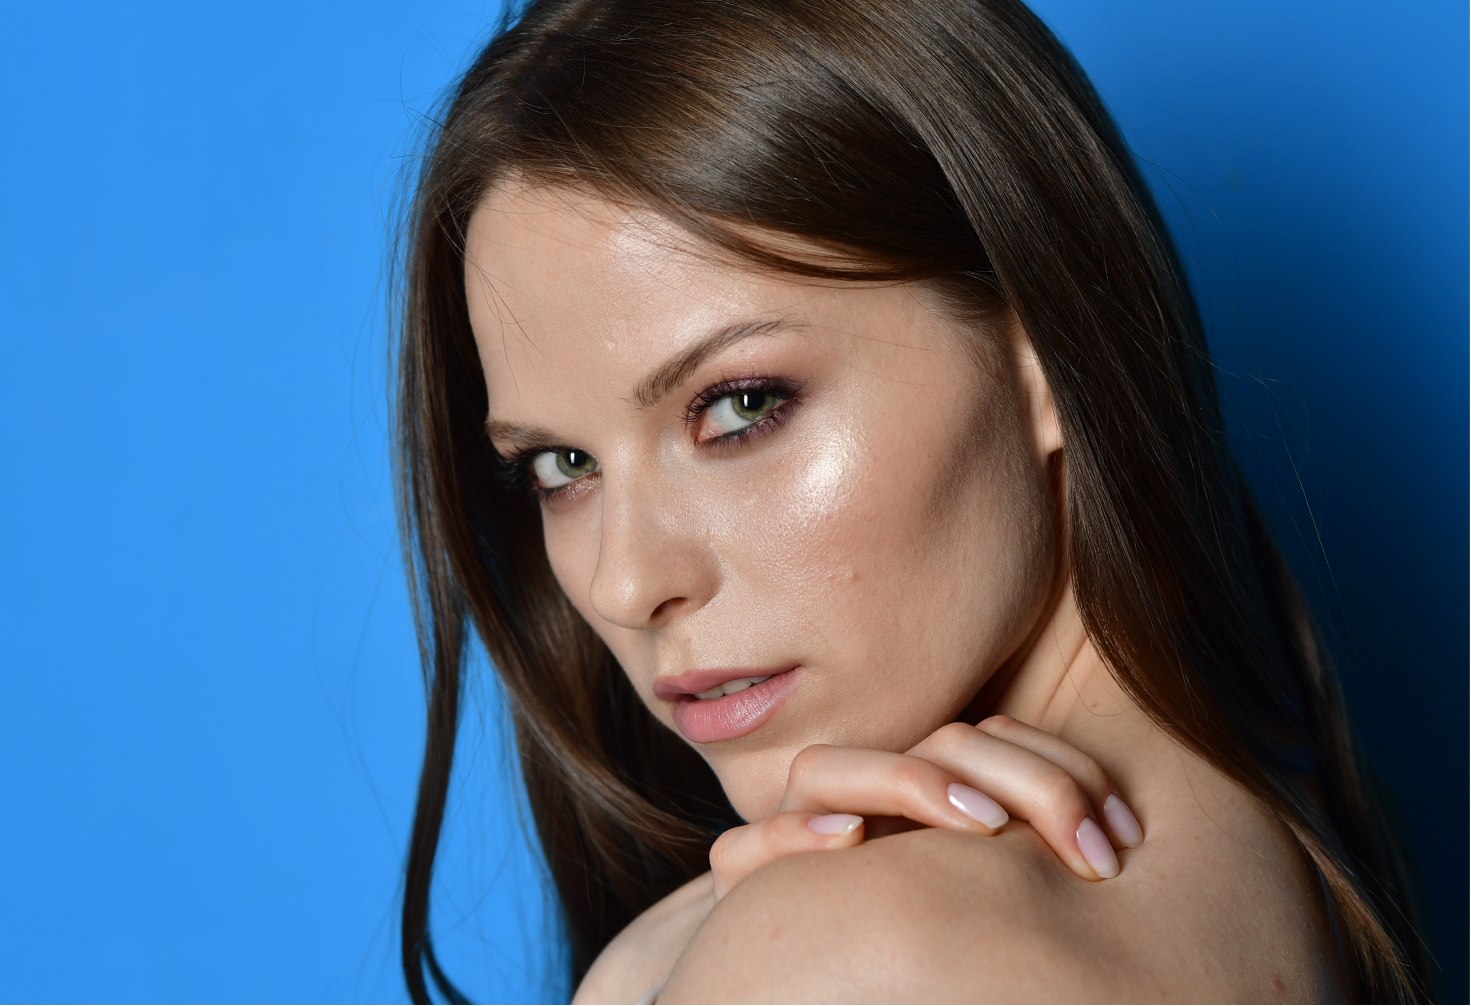
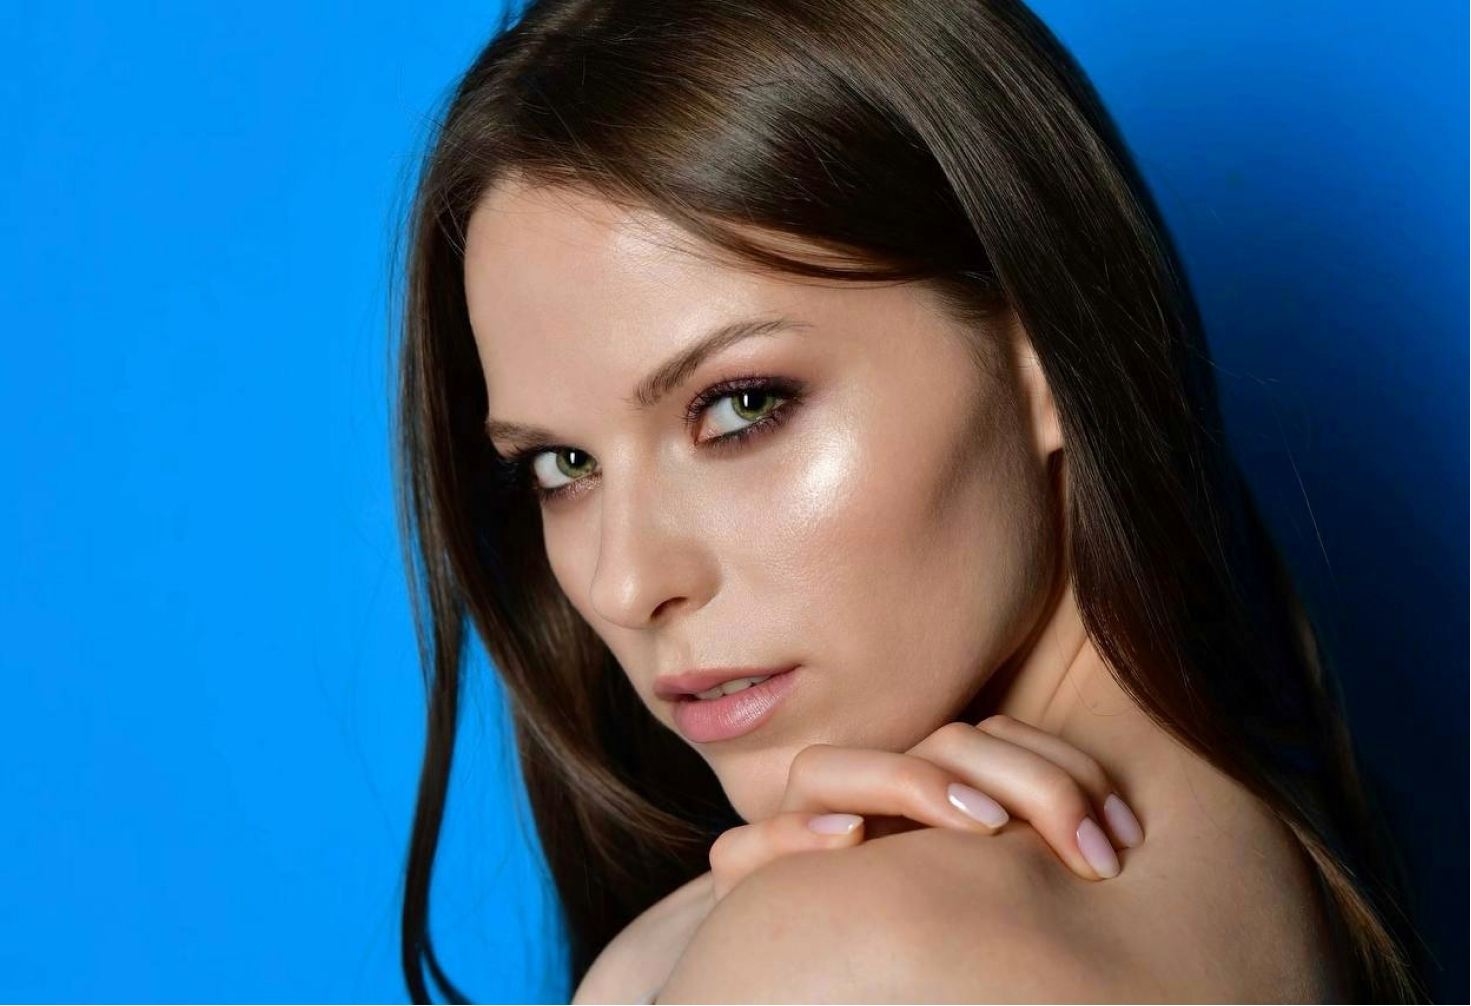
New photos + encrease info font

diff --git a/index.html b/index.html
@@ -155,8 +155,12 @@
             }
 
             #about {
-                width: 25rem;
+                width: 30rem;
                 margin: 3rem auto;
+            }
+
+            #about p {
+                font-size: 1.5rem;
             }
 
             .row {
@@ -285,6 +289,7 @@
             <div class="row">
                 <div><img src="imgs/p2-0.jpg" /></div>
                 <div><img src="imgs/p2-1.jpg" /></div>
+                <div><img src="imgs/p2-2.jpg" /></div>
             </div>
             <div class="row">
                 <div><img src="imgs/p3-0.jpg" /></div>
@@ -330,6 +335,16 @@
                 <div><img src="imgs/p12-0.jpg" /></div>
                 <div><img src="imgs/p12-1.jpg" /></div>
                 <div><img src="imgs/p12-2.jpg" /></div>
+            </div>
+            <div class="row">
+                <div><img src="imgs/p13-0.jpg" /></div>
+                <div><img src="imgs/p13-1.jpg" /></div>
+                <div><img src="imgs/p13-2.jpg" /></div>
+            </div>
+            <div class="row">
+                <div><img src="imgs/p14-0.jpg" /></div>
+                <div><img src="imgs/p14-1.jpg" /></div>
+                <div><img src="imgs/p14-2.jpg" /></div>
             </div>
         </div>
     </main>
